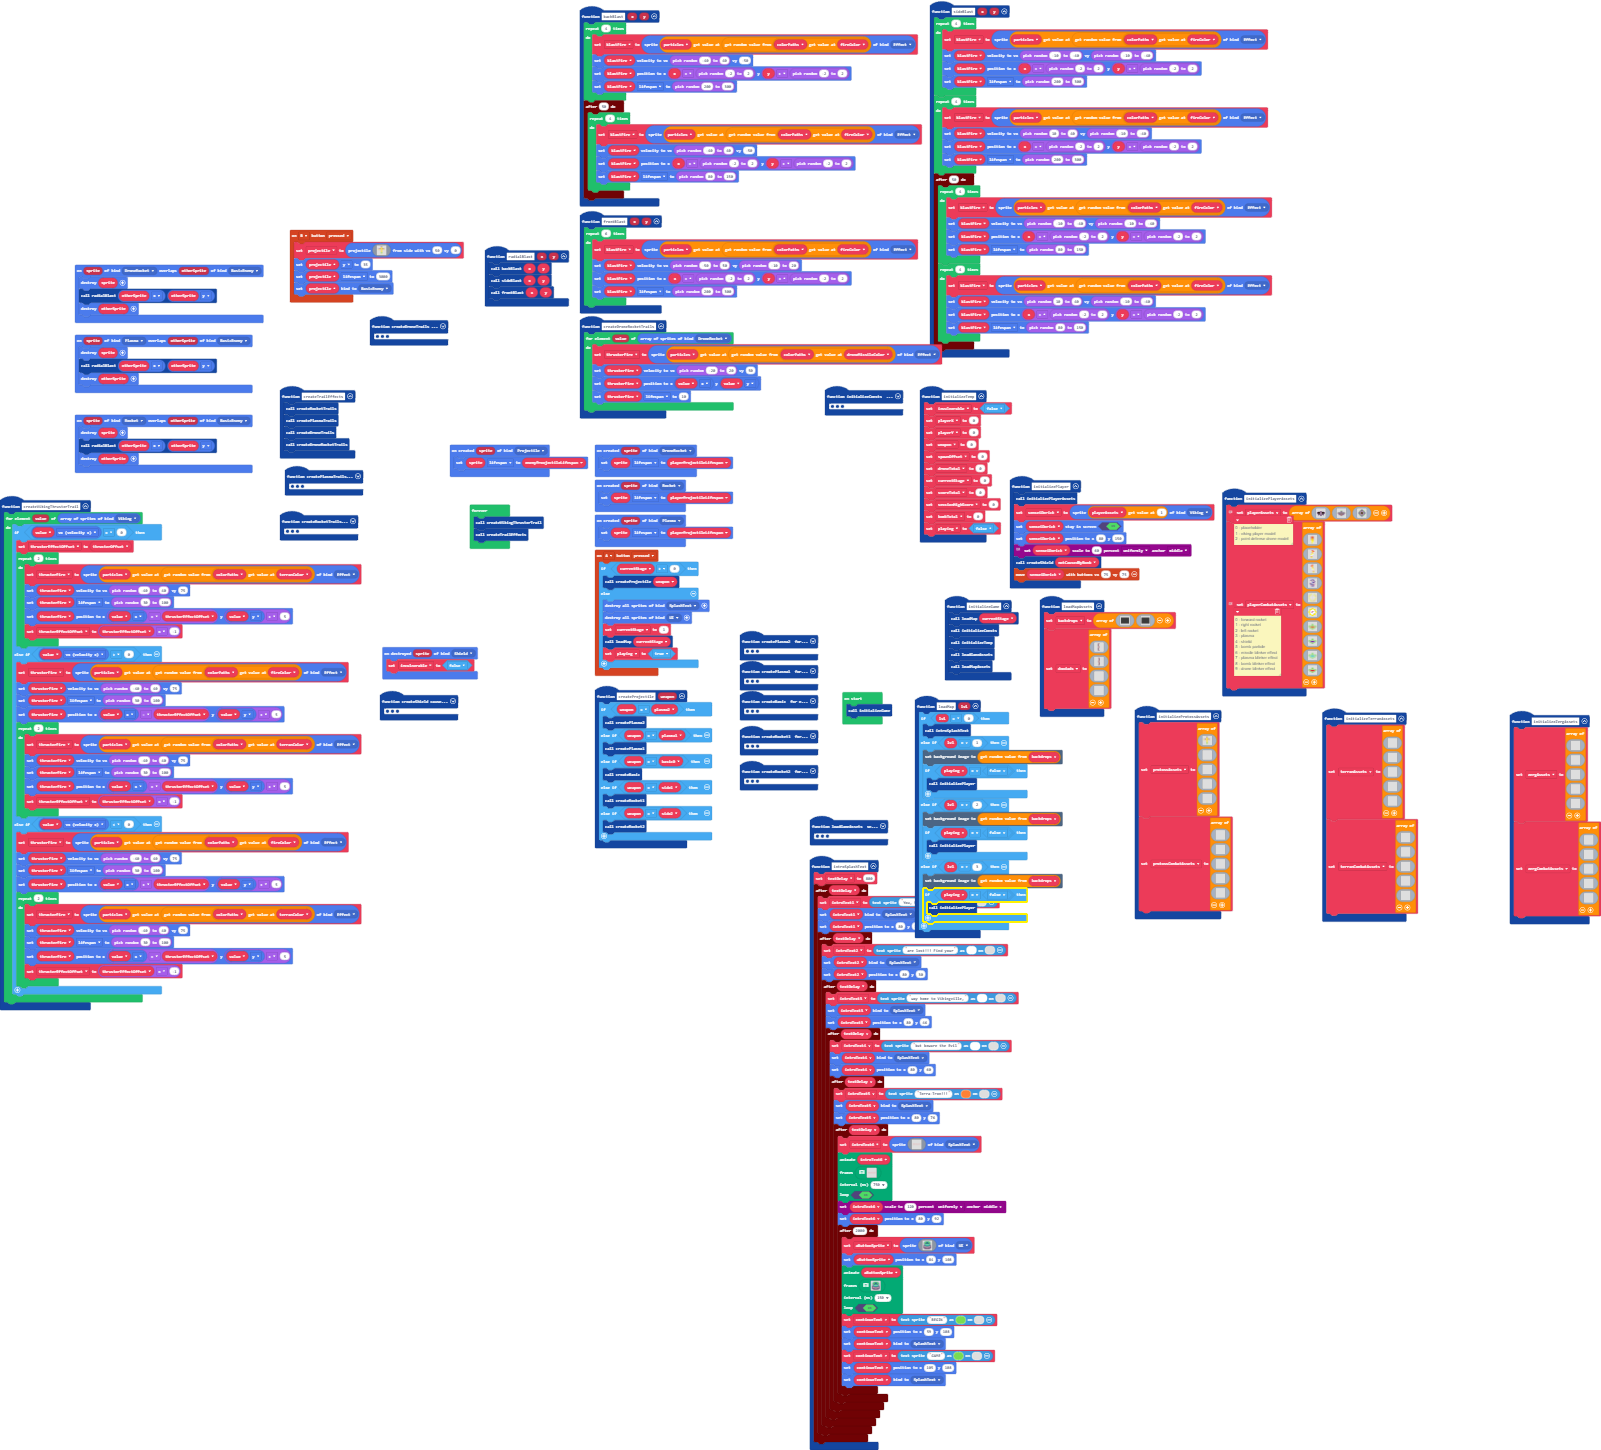
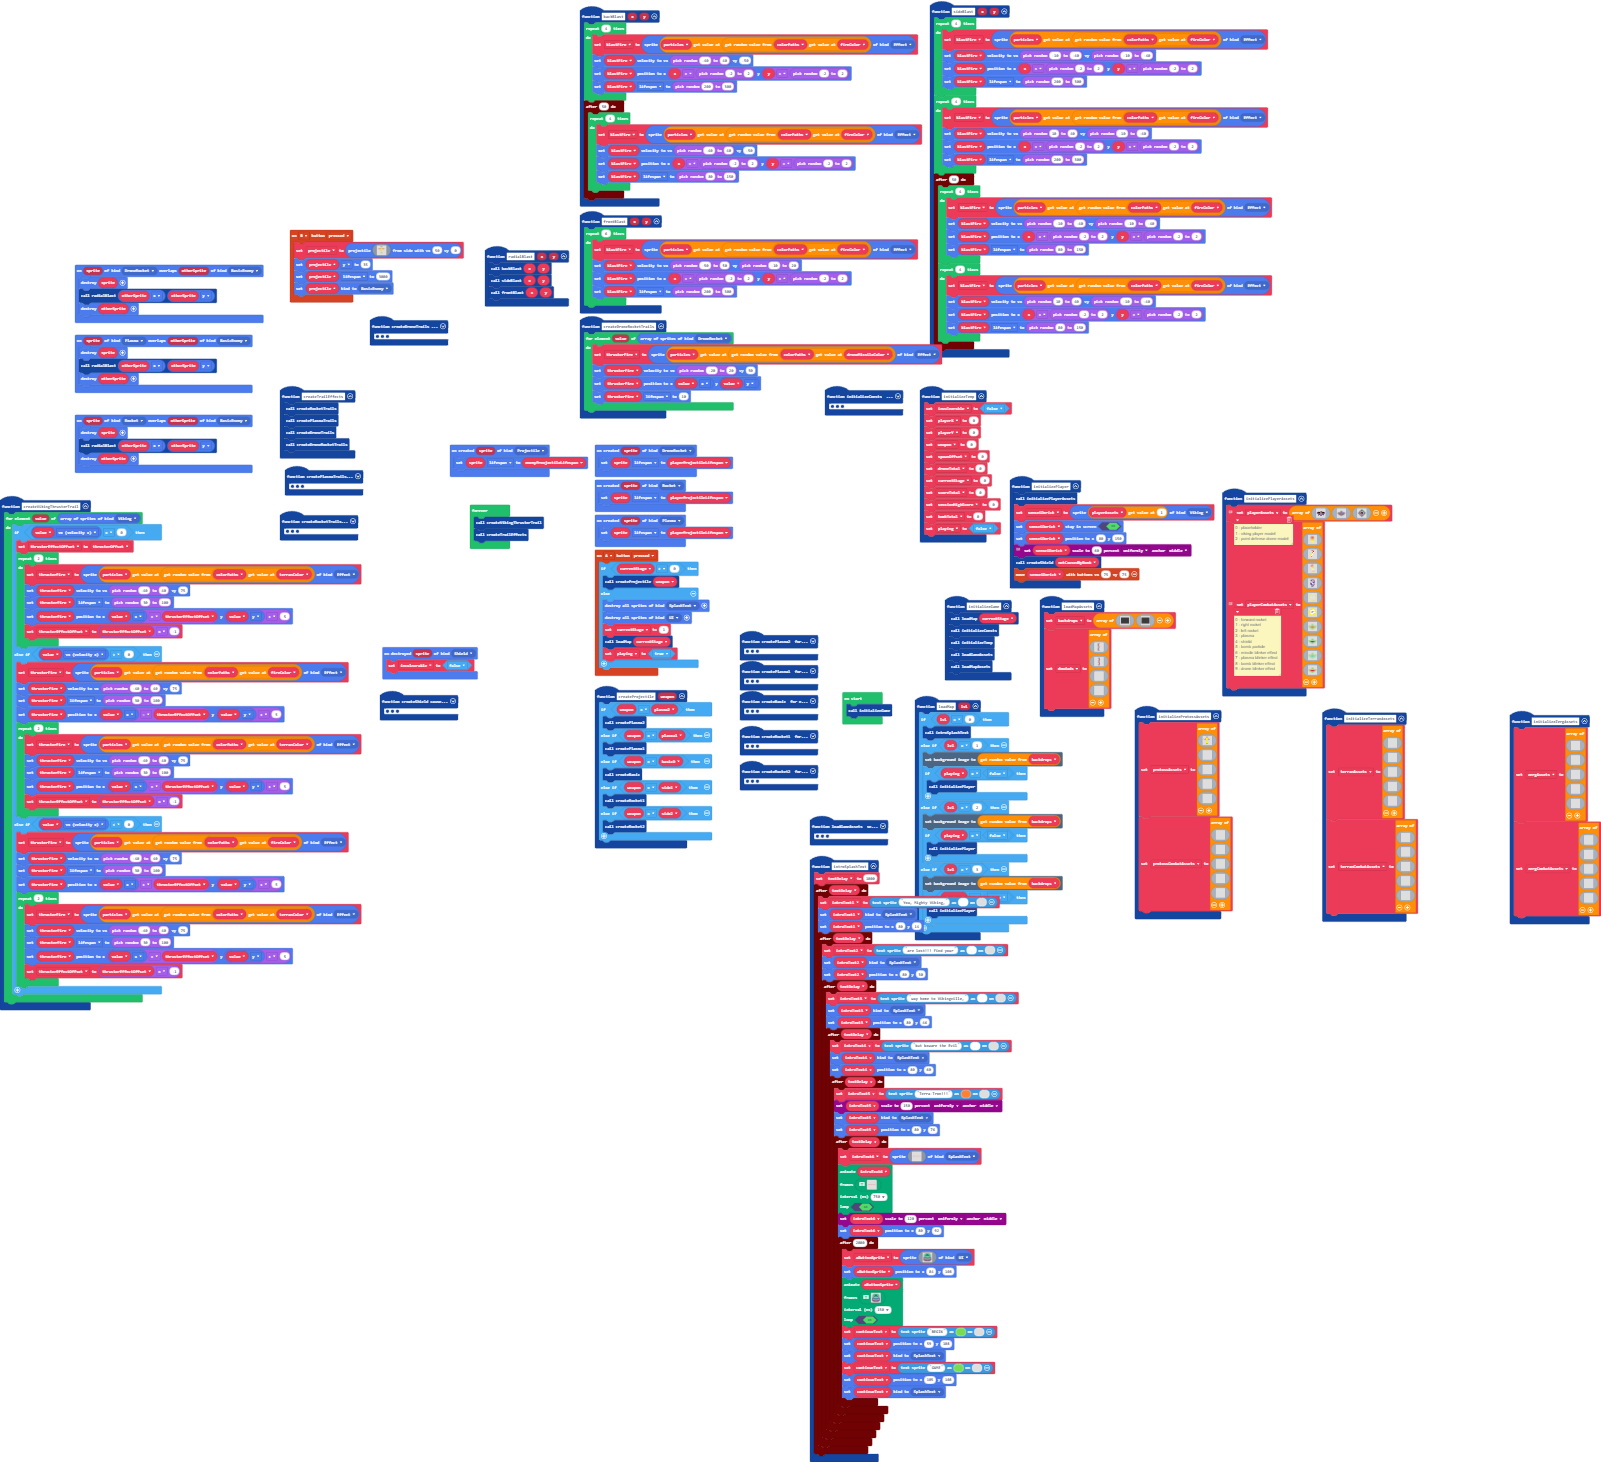
modified splash text scaling

Changed region(s): [[0.0, 0.031, 0.9057, 0.9621], [0.9369, 0.4655, 1.0, 0.6517]]

diff --git a/main.ts b/main.ts
@@ -11,7 +11,7 @@ namespace SpriteKind {
     export const UI = SpriteKind.create()
 }
 function introSplashText () {
-    textDelay = 800
+    textDelay = 1000
     timer.after(textDelay, function () {
         introText1 = textsprite.create("You, Mighty Viking,", 0, 1)
         introText1.setKind(SpriteKind.SplashText)
@@ -30,6 +30,7 @@ function introSplashText () {
                     introText4.setPosition(80, 60)
                     timer.after(textDelay, function () {
                         introText5 = textsprite.create("Terra-Tron!!!", 0, 4)
+                        scaling.scaleToPercent(introText5, 150, ScaleDirection.Uniformly, ScaleAnchor.Middle)
                         introText5.setKind(SpriteKind.SplashText)
                         introText5.setPosition(80, 76)
                         timer.after(textDelay, function () {
